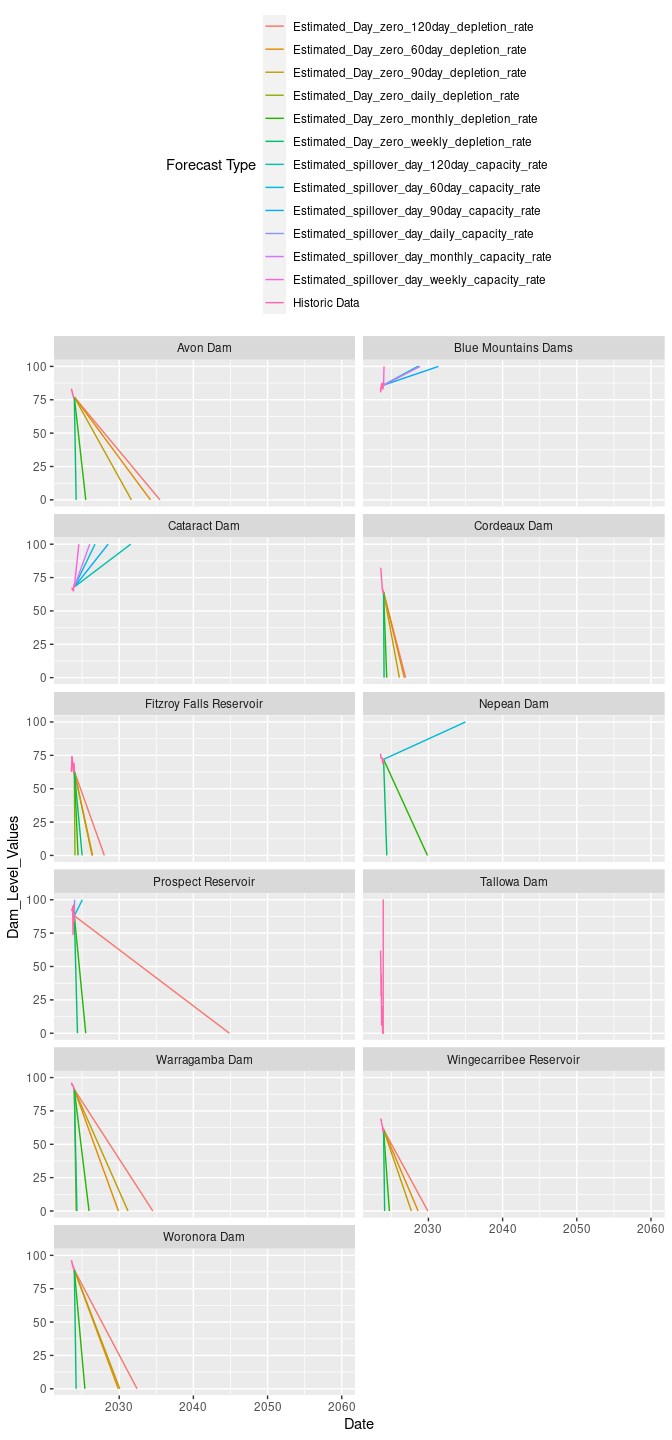
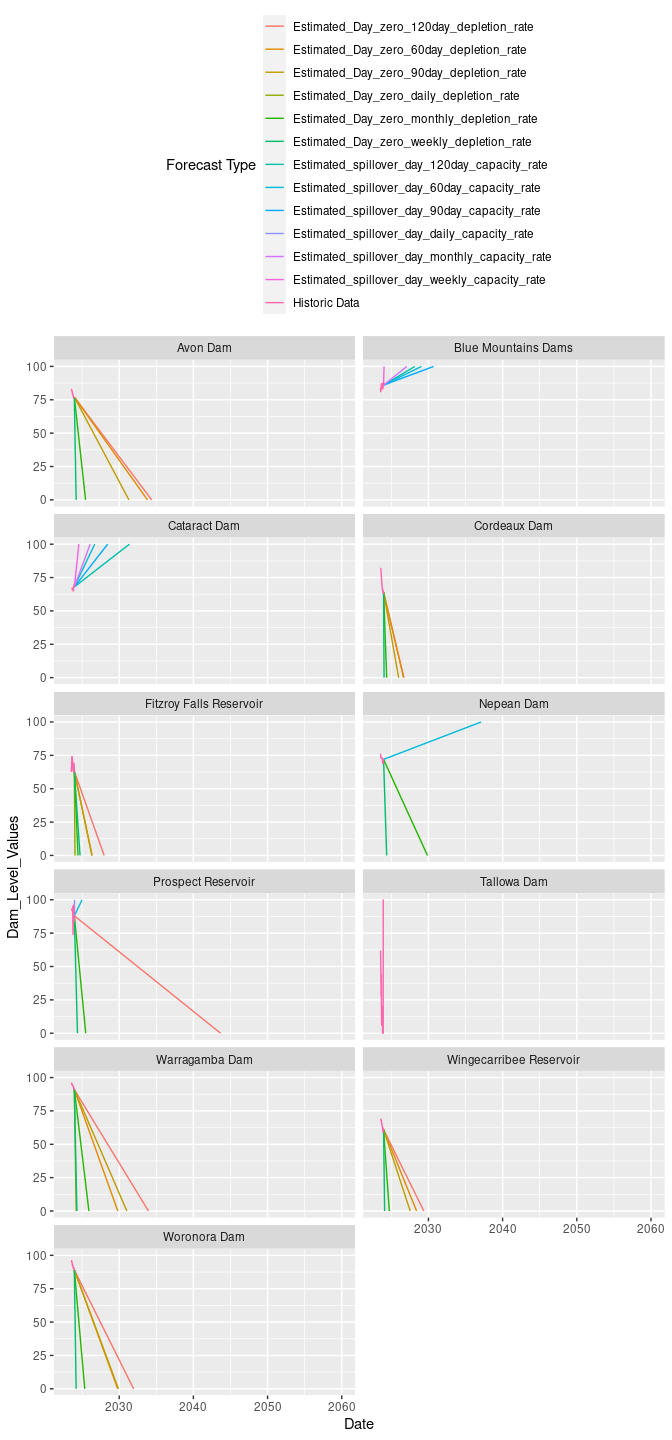
GH ACTION Headlines Sat Dec 16 09:52:34 UTC 2023

diff --git a/Greater_Sydney_Dam_Levels/readme.md b/Greater_Sydney_Dam_Levels/readme.md
@@ -1,14 +1,9 @@
-Todays Greater Sydney Dam Report
-================
-Last updated on 16 December, 2023
-
-## Welcome to the Greater Sydney Dam Levels Daily Data Scraper
-
 This product is currently:
 
-[![damlevel_scrape.r](https://github.com/snazzyandy/Modelling-and-EDA/actions/workflows/greatersydscraper.yml/badge.svg)](https://github.com/snazzyandy/Modelling-and-EDA/actions/workflows/greatersydscraper.yml)
+[![damlevel\_scrape.r](https://github.com/snazzyandy/Modelling-and-EDA/actions/workflows/greatersydscraper.yml/badge.svg)](https://github.com/snazzyandy/Modelling-and-EDA/actions/workflows/greatersydscraper.yml)
 
-## Why Scrape Greater Sydney Dam Levels?
+Why Scrape Greater Sydney Dam Levels?
+-------------------------------------
 
 A friend of mine mentioned that WaterNSW updated their website. However,
 like with most web facelifts, the websites’s functionality took a hit.
@@ -24,7 +19,8 @@ The data we are borrowing is from [this page on Water NSW’s
 site](https://www.waternsw.com.au/nsw-dams/nsw-storage-levels/greater-sydney-dam-levels)!
 ![Image](Images/WNSWScreenshot.png)
 
-## Why Not use water insights?
+Why Not use water insights?
+---------------------------
 
 [The WNSW app Water
 insights](https://waterinsights.waternsw.com.au/12964-sydney-drinking-water-catchment/#!)
@@ -32,75 +28,299 @@ is a great product for most users but doesnt solve my daily data point
 query. Instead it offers weekly, monthly and yearly data series. For
 those looking for longitudinal data this is very useful!
 
-## Where can i access the data?
+Where can i access the data?
+----------------------------
 
 All these daily data extracts are available in the data folder. Open
 sourcing (MIT Licence) for those who are interested \#OpenData!
 
-## What Can we learn from the most recent readings
+How has this product been performing
+------------------------------------
 
-``` r
-## How has the scraper performed over the last week?
-# Testing next to see if its deployed in the markdown on deploy
+    ## How has the scraper performed over the last week?
+    # Testing next to see if its deployed in the markdown on deploy
 
 
 
-Percentage_Of_complete_daily_reads
-```
+    Percentage_Of_complete_daily_reads
 
-![](readme_files/figure-gfm/graph-1.png)<!-- -->
+![](readme_files/figure-markdown_strict/graph-1.png) \#\# What is the
+key inference from this data
 
-``` r
-#Based off the most recent estimates we can derive the following dates the dams will reach empty.
-#We do this using a very basic rolling average depletion rate 
+Collecting daily data allows us to produce more granular rolling average
+estimates. These averages trend either upwards or downwards. When dam
+levels trend towards 100% it means we are approaching ‘Spillover Day’.
+Spillover day means that any addtional water introduced to this dam will
+be redirected to either the floodgates or the spillway that connects to
+local rivers or communities.
 
-knitr::kable(Yesterdays_day_zeros)
-```
+Inversely, when dam levels are trending downwards it means storage
+capacity is reaching zero. This means that the communities that are
+serviced by the dam are more likely to suffer drought restrictions and
+water utilities will have to treat more turbid water due to higher
+sediment levels at the bottom of these dams. It is highly unlikely that
+these dams will actually reach zero as government intervention requires
+the construction of desalination to artifically reduce this depletion
+rate - a method that was highly effective in the 2016 and 2020 droughts
+- however that is outside of the scope of this tool.
 
-| Variable                | Estimated_Day_zero_daily_depletion_rate | Estimated_Day_zero_weekly_depletion_rate | Estimated_Day_zero_monthly_depletion_rate | Estimated_Day_zero_60day_depletion_rate | Estimated_Day_zero_90day_depletion_rate | Estimated_Day_zero_120day_depletion_rate |
-|:------------------------|:----------------------------------------|:-----------------------------------------|:------------------------------------------|:----------------------------------------|:----------------------------------------|:-----------------------------------------|
-| Avon Dam                | NA                                      | 2024-03-14                               | 2025-06-30                                | 2034-03-18                              | 2031-08-24                              | 2035-07-01                               |
-| Blue Mountains Dams     | NA                                      | NA                                       | NA                                        | NA                                      | NA                                      | NA                                       |
-| Cataract Dam            | NA                                      | NA                                       | NA                                        | NA                                      | NA                                      | NA                                       |
-| Cordeaux Dam            | NA                                      | 2024-01-09                               | 2024-05-20                                | 2026-10-04                              | 2026-01-31                              | 2026-12-05                               |
-| Fitzroy Falls Reservoir | 2024-01-16                              | 2025-01-04                               | 2024-06-15                                | 2026-06-02                              | 2026-05-07                              | 2028-01-01                               |
-| Nepean Dam              | NA                                      | 2024-05-23                               | 2029-11-13                                | NA                                      | 2087-10-28                              | NA                                       |
-| Prospect Reservoir      | NA                                      | 2024-05-17                               | 2025-06-29                                | NA                                      | 2145-12-05                              | 2044-11-08                               |
-| Tallowa Dam             | NA                                      | NA                                       | NA                                        | NA                                      | NA                                      | NA                                       |
-| Warragamba Dam          | 2024-03-15                              | 2024-04-20                               | 2025-12-09                                | 2029-11-23                              | 2031-03-10                              | 2034-07-15                               |
-| Wingecarribee Reservoir | NA                                      | 2024-02-06                               | 2024-09-26                                | 2028-08-12                              | 2027-09-14                              | 2029-12-03                               |
-| Woronora Dam            | NA                                      | 2024-03-13                               | 2025-05-18                                | 2029-11-18                              | 2030-01-31                              | 2032-05-29                               |
+Using the current storage level and the rolling averages sampled at
+1,7,30,60,90 and 120 days can estimate the “Spillover” and “Day Zero”
+days based off the most recent data.
 
-``` r
-#For those values that are NA, we expect the dam to spill over before they begin depleting again 
-knitr::kable(yesterdays_spillover_days)
-```
+    #Based off yesterdays reading we estimate the following day zeros
 
-| Variable                | Estimated_spillover_day_daily_capacity_rate | Estimated_spillover_day_weekly_capacity_rate | Estimated_spillover_day_60day_capacity_rate | Estimated_spillover_day_90day_capacity_rate | Estimated_spillover_day_120day_capacity_rate |
-|:------------------------|:--------------------------------------------|:---------------------------------------------|:--------------------------------------------|:--------------------------------------------|:---------------------------------------------|
-| Avon Dam                | NA                                          | NA                                           | NA                                          | NA                                          | NA                                           |
-| Blue Mountains Dams     | NA                                          | 2024-01-07                                   | 2028-07-21                                  | 2031-05-07                                  | 2028-09-17                                   |
-| Cataract Dam            | NA                                          | 2024-07-26                                   | 2026-09-29                                  | 2028-07-03                                  | 2031-07-22                                   |
-| Cordeaux Dam            | NA                                          | NA                                           | NA                                          | NA                                          | NA                                           |
-| Fitzroy Falls Reservoir | NA                                          | NA                                           | NA                                          | NA                                          | NA                                           |
-| Nepean Dam              | NA                                          | NA                                           | 2034-12-29                                  | NA                                          | 2088-11-21                                   |
-| Prospect Reservoir      | 2023-12-27                                  | NA                                           | 2025-01-14                                  | NA                                          | NA                                           |
-| Tallowa Dam             | NA                                          | 2023-12-15                                   | 2023-12-15                                  | 2023-12-15                                  | 2023-12-15                                   |
-| Warragamba Dam          | NA                                          | NA                                           | NA                                          | NA                                          | NA                                           |
-| Wingecarribee Reservoir | NA                                          | NA                                           | NA                                          | NA                                          | NA                                           |
-| Woronora Dam            | NA                                          | NA                                           | NA                                          | NA                                          | NA                                           |
+    knitr::kable(Yesterdays_day_zeros)
 
-``` r
-#Based on a 120 day rolling average what date is warragamba likely to overflow or hit zero.
-gg_dam_forecast_60
-```
+<table>
+<colgroup>
+<col style="width: 8%" />
+<col style="width: 14%" />
+<col style="width: 15%" />
+<col style="width: 15%" />
+<col style="width: 14%" />
+<col style="width: 14%" />
+<col style="width: 15%" />
+</colgroup>
+<thead>
+<tr class="header">
+<th style="text-align: left;">Variable</th>
+<th style="text-align: left;">Estimated_Day_zero_daily_depletion_rate</th>
+<th style="text-align: left;">Estimated_Day_zero_weekly_depletion_rate</th>
+<th style="text-align: left;">Estimated_Day_zero_monthly_depletion_rate</th>
+<th style="text-align: left;">Estimated_Day_zero_60day_depletion_rate</th>
+<th style="text-align: left;">Estimated_Day_zero_90day_depletion_rate</th>
+<th style="text-align: left;">Estimated_Day_zero_120day_depletion_rate</th>
+</tr>
+</thead>
+<tbody>
+<tr class="odd">
+<td style="text-align: left;">Avon Dam</td>
+<td style="text-align: left;">NA</td>
+<td style="text-align: left;">2024-03-14</td>
+<td style="text-align: left;">2025-06-21</td>
+<td style="text-align: left;">2033-10-23</td>
+<td style="text-align: left;">2031-04-25</td>
+<td style="text-align: left;">2034-05-21</td>
+</tr>
+<tr class="even">
+<td style="text-align: left;">Blue Mountains Dams</td>
+<td style="text-align: left;">NA</td>
+<td style="text-align: left;">NA</td>
+<td style="text-align: left;">NA</td>
+<td style="text-align: left;">NA</td>
+<td style="text-align: left;">NA</td>
+<td style="text-align: left;">NA</td>
+</tr>
+<tr class="odd">
+<td style="text-align: left;">Cataract Dam</td>
+<td style="text-align: left;">NA</td>
+<td style="text-align: left;">NA</td>
+<td style="text-align: left;">NA</td>
+<td style="text-align: left;">NA</td>
+<td style="text-align: left;">NA</td>
+<td style="text-align: left;">NA</td>
+</tr>
+<tr class="even">
+<td style="text-align: left;">Cordeaux Dam</td>
+<td style="text-align: left;">NA</td>
+<td style="text-align: left;">2024-01-09</td>
+<td style="text-align: left;">2024-05-18</td>
+<td style="text-align: left;">2026-08-30</td>
+<td style="text-align: left;">2025-12-27</td>
+<td style="text-align: left;">2026-09-10</td>
+</tr>
+<tr class="odd">
+<td style="text-align: left;">Fitzroy Falls Reservoir</td>
+<td style="text-align: left;">2024-01-16</td>
+<td style="text-align: left;">2024-09-21</td>
+<td style="text-align: left;">2024-06-14</td>
+<td style="text-align: left;">2026-05-09</td>
+<td style="text-align: left;">2026-04-28</td>
+<td style="text-align: left;">2027-12-22</td>
+</tr>
+<tr class="even">
+<td style="text-align: left;">Nepean Dam</td>
+<td style="text-align: left;">NA</td>
+<td style="text-align: left;">2024-05-16</td>
+<td style="text-align: left;">2029-11-13</td>
+<td style="text-align: left;">NA</td>
+<td style="text-align: left;">2072-05-04</td>
+<td style="text-align: left;">2429-06-23</td>
+</tr>
+<tr class="odd">
+<td style="text-align: left;">Prospect Reservoir</td>
+<td style="text-align: left;">NA</td>
+<td style="text-align: left;">2024-05-17</td>
+<td style="text-align: left;">2025-06-29</td>
+<td style="text-align: left;">NA</td>
+<td style="text-align: left;">2145-12-05</td>
+<td style="text-align: left;">2043-09-01</td>
+</tr>
+<tr class="even">
+<td style="text-align: left;">Tallowa Dam</td>
+<td style="text-align: left;">NA</td>
+<td style="text-align: left;">NA</td>
+<td style="text-align: left;">NA</td>
+<td style="text-align: left;">NA</td>
+<td style="text-align: left;">NA</td>
+<td style="text-align: left;">NA</td>
+</tr>
+<tr class="odd">
+<td style="text-align: left;">Warragamba Dam</td>
+<td style="text-align: left;">2024-03-15</td>
+<td style="text-align: left;">2024-04-20</td>
+<td style="text-align: left;">2025-12-02</td>
+<td style="text-align: left;">2029-10-25</td>
+<td style="text-align: left;">2031-01-13</td>
+<td style="text-align: left;">2033-12-12</td>
+</tr>
+<tr class="even">
+<td style="text-align: left;">Wingecarribee Reservoir</td>
+<td style="text-align: left;">NA</td>
+<td style="text-align: left;">2024-02-06</td>
+<td style="text-align: left;">2024-09-23</td>
+<td style="text-align: left;">2028-05-29</td>
+<td style="text-align: left;">2027-07-18</td>
+<td style="text-align: left;">2029-05-20</td>
+</tr>
+<tr class="odd">
+<td style="text-align: left;">Woronora Dam</td>
+<td style="text-align: left;">NA</td>
+<td style="text-align: left;">2024-03-13</td>
+<td style="text-align: left;">2025-05-11</td>
+<td style="text-align: left;">2029-10-20</td>
+<td style="text-align: left;">2029-11-24</td>
+<td style="text-align: left;">2031-12-12</td>
+</tr>
+</tbody>
+</table>
 
-![](readme_files/figure-gfm/graph%202-1.png)<!-- -->
+    #Based off yesterdays reading we estimate the folling spill over days
+    knitr::kable(yesterdays_spillover_days)
 
-``` r
-gg_dam_forecast_30
-```
+<table>
+<colgroup>
+<col style="width: 9%" />
+<col style="width: 17%" />
+<col style="width: 18%" />
+<col style="width: 17%" />
+<col style="width: 17%" />
+<col style="width: 18%" />
+</colgroup>
+<thead>
+<tr class="header">
+<th style="text-align: left;">Variable</th>
+<th style="text-align: left;">Estimated_spillover_day_daily_capacity_rate</th>
+<th style="text-align: left;">Estimated_spillover_day_weekly_capacity_rate</th>
+<th style="text-align: left;">Estimated_spillover_day_60day_capacity_rate</th>
+<th style="text-align: left;">Estimated_spillover_day_90day_capacity_rate</th>
+<th style="text-align: left;">Estimated_spillover_day_120day_capacity_rate</th>
+</tr>
+</thead>
+<tbody>
+<tr class="odd">
+<td style="text-align: left;">Avon Dam</td>
+<td style="text-align: left;">NA</td>
+<td style="text-align: left;">NA</td>
+<td style="text-align: left;">NA</td>
+<td style="text-align: left;">NA</td>
+<td style="text-align: left;">NA</td>
+</tr>
+<tr class="even">
+<td style="text-align: left;">Blue Mountains Dams</td>
+<td style="text-align: left;">NA</td>
+<td style="text-align: left;">2024-01-08</td>
+<td style="text-align: left;">2029-01-24</td>
+<td style="text-align: left;">2030-09-14</td>
+<td style="text-align: left;">2028-03-02</td>
+</tr>
+<tr class="odd">
+<td style="text-align: left;">Cataract Dam</td>
+<td style="text-align: left;">NA</td>
+<td style="text-align: left;">2024-07-26</td>
+<td style="text-align: left;">2026-09-12</td>
+<td style="text-align: left;">2028-06-12</td>
+<td style="text-align: left;">2031-05-18</td>
+</tr>
+<tr class="even">
+<td style="text-align: left;">Cordeaux Dam</td>
+<td style="text-align: left;">NA</td>
+<td style="text-align: left;">NA</td>
+<td style="text-align: left;">NA</td>
+<td style="text-align: left;">NA</td>
+<td style="text-align: left;">NA</td>
+</tr>
+<tr class="odd">
+<td style="text-align: left;">Fitzroy Falls Reservoir</td>
+<td style="text-align: left;">NA</td>
+<td style="text-align: left;">NA</td>
+<td style="text-align: left;">NA</td>
+<td style="text-align: left;">NA</td>
+<td style="text-align: left;">NA</td>
+</tr>
+<tr class="even">
+<td style="text-align: left;">Nepean Dam</td>
+<td style="text-align: left;">NA</td>
+<td style="text-align: left;">NA</td>
+<td style="text-align: left;">2037-02-04</td>
+<td style="text-align: left;">NA</td>
+<td style="text-align: left;">NA</td>
+</tr>
+<tr class="odd">
+<td style="text-align: left;">Prospect Reservoir</td>
+<td style="text-align: left;">2023-12-27</td>
+<td style="text-align: left;">NA</td>
+<td style="text-align: left;">2024-12-31</td>
+<td style="text-align: left;">NA</td>
+<td style="text-align: left;">NA</td>
+</tr>
+<tr class="even">
+<td style="text-align: left;">Tallowa Dam</td>
+<td style="text-align: left;">NA</td>
+<td style="text-align: left;">2023-12-15</td>
+<td style="text-align: left;">2023-12-15</td>
+<td style="text-align: left;">2023-12-15</td>
+<td style="text-align: left;">2023-12-15</td>
+</tr>
+<tr class="odd">
+<td style="text-align: left;">Warragamba Dam</td>
+<td style="text-align: left;">NA</td>
+<td style="text-align: left;">NA</td>
+<td style="text-align: left;">NA</td>
+<td style="text-align: left;">NA</td>
+<td style="text-align: left;">NA</td>
+</tr>
+<tr class="even">
+<td style="text-align: left;">Wingecarribee Reservoir</td>
+<td style="text-align: left;">NA</td>
+<td style="text-align: left;">NA</td>
+<td style="text-align: left;">NA</td>
+<td style="text-align: left;">NA</td>
+<td style="text-align: left;">NA</td>
+</tr>
+<tr class="odd">
+<td style="text-align: left;">Woronora Dam</td>
+<td style="text-align: left;">NA</td>
+<td style="text-align: left;">NA</td>
+<td style="text-align: left;">NA</td>
+<td style="text-align: left;">NA</td>
+<td style="text-align: left;">NA</td>
+</tr>
+</tbody>
+</table>
 
-    ## Warning: Removed 2 rows containing missing values (`geom_line()`).
+    # We can also visualize the spillover/day zero estimates using trend charts out to 2060 and 2030.
+    # As the lines converge, there is more mean reversion between the current depletion rate and the future rate
+    # As the lines diverge, it is more likely the recent data is an outlier to the historical average
+    # Note the most recent severe droughts had a 13% and 20% system depletion rate estimating the system runs out of water by 7.7 and 5 years respectively.
 
-![](readme_files/figure-gfm/graph%202-2.png)<!-- -->
+    gg_dam_forecast_60
+
+![](readme_files/figure-markdown_strict/graph%202-1.png)
+
+    gg_dam_forecast_30
+
+    ## Warning: Removed 1 row containing missing values (`geom_line()`).
+
+![](readme_files/figure-markdown_strict/graph%202-2.png)
